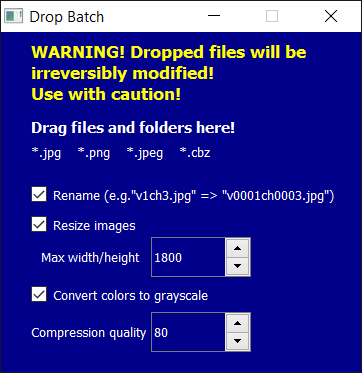
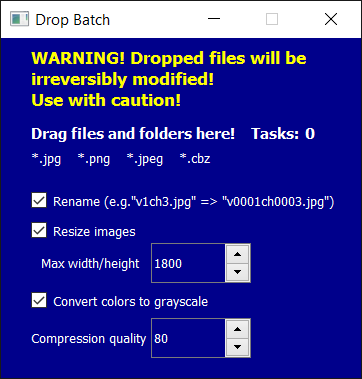
Mutex, Tasks label
Added Mutex to prevent errors with cbz files processing,
Added tasks label, so the user would know when all jobs are done.

diff --git a/DropBatch.py b/DropBatch.py
@@ -9,6 +9,7 @@ from PyQt5.QtWidgets import (
 	QLabel,
 	QCheckBox,
 	QSpinBox,
+	QMessageBox,
 )
 
 from PyQt5.QtCore import (
@@ -16,6 +17,7 @@ from PyQt5.QtCore import (
 	QUrl,
 	QRunnable,
 	QThreadPool,
+	QMutex,
 )
 
 from PyQt5.QtGui import (
@@ -29,6 +31,8 @@ supported_file_extensions = []
 supported_file_extensions += supported_image_extensions
 supported_file_extensions += supported_zip_extensions
 
+mutex = QMutex()
+
 class JobDefinition:
 	def __init__(self):
 		self.links = []
@@ -41,15 +45,27 @@ class JobDefinition:
 		self.imageQuality = 80
 
 class Runnable(QRunnable):
-	def __init__(self, jobDefinition, statusLabel):
+	def __init__(self, jobDefinition, statusLabel, tasksLabel):
 		super().__init__()
 		
 		self.jobDefinition = jobDefinition
 		self.statusLabel = statusLabel
+		self.tasksLabel = tasksLabel
 
 	def run(self):
-		self.unpack_dirs()
-		self.process_files()
+		self.tasksLabel.setText(str(int(self.tasksLabel.text()) + 1))
+		
+		mutex.lock()
+		
+		try:
+			self.unpack_dirs()
+			self.process_files()
+		except Exception as err:
+			self.show_error_message(type(err).__name__, str(err))
+		
+		mutex.unlock()
+		
+		self.tasksLabel.setText(str(int(self.tasksLabel.text()) - 1))
 	
 	def unpack_dirs(self):
 		result = []
@@ -143,6 +159,14 @@ class Runnable(QRunnable):
 	def process_filename_number(self, number_re_match):
 		return "%04d"%(int(number_re_match.group(0)),)
 		
+	def show_error_message(self, error_type, error_description):
+		msg = QMessageBox()
+		msg.setIcon(QMessageBox.Critical)
+		msg.setText(error_description)
+		#msg.setInformativeText(error_description)
+		msg.setWindowTitle(error_type)
+		msg.exec_()
+		
 class DropBatch(QMainWindow):
 	def __init__(self):
 		super().__init__()
@@ -161,6 +185,14 @@ class DropBatch(QMainWindow):
 		self.statusLabel = QLabel("Drag files and folders here!", self)
 		self.statusLabel.setGeometry(30, 80, 250, 30)
 		self.statusLabel.setStyleSheet("font-weight: bold; font-size: 9pt")
+		
+		tasksLabel = QLabel("Tasks: ", self)
+		tasksLabel.setGeometry(250, 80, 150, 30)
+		tasksLabel.setStyleSheet("font-weight: bold; font-size: 9pt")
+		
+		self.tasksLabel = QLabel("0", self)
+		self.tasksLabel.setGeometry(304, 80, 150, 30)
+		self.tasksLabel.setStyleSheet("font-weight: bold; font-size: 9pt")
 		
 		extensionsLabel = QLabel("    ".join("*%s"%(ext,) for ext in supported_file_extensions), self)
 		extensionsLabel.setGeometry(30, 105, 250, 30)
@@ -233,7 +265,7 @@ class DropBatch(QMainWindow):
 			
 			pool = QThreadPool.globalInstance()
 			
-			runnable = Runnable(jobDefinition, self.statusLabel)
+			runnable = Runnable(jobDefinition, self.statusLabel, self.tasksLabel)
 				
 			pool.start(runnable)
 		else:
